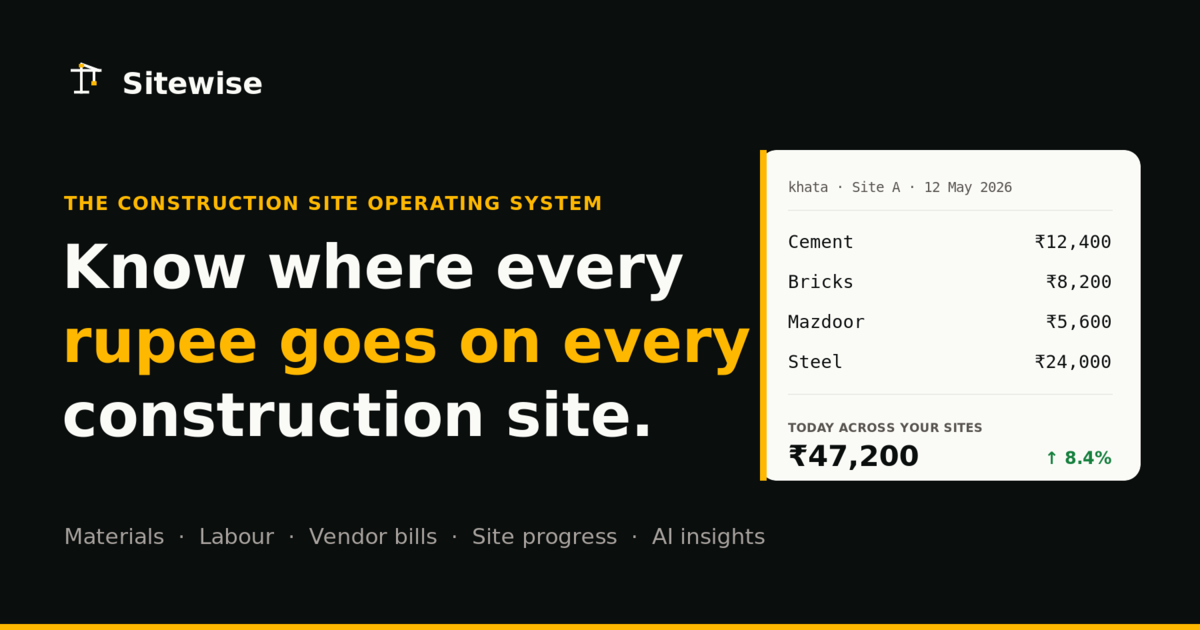
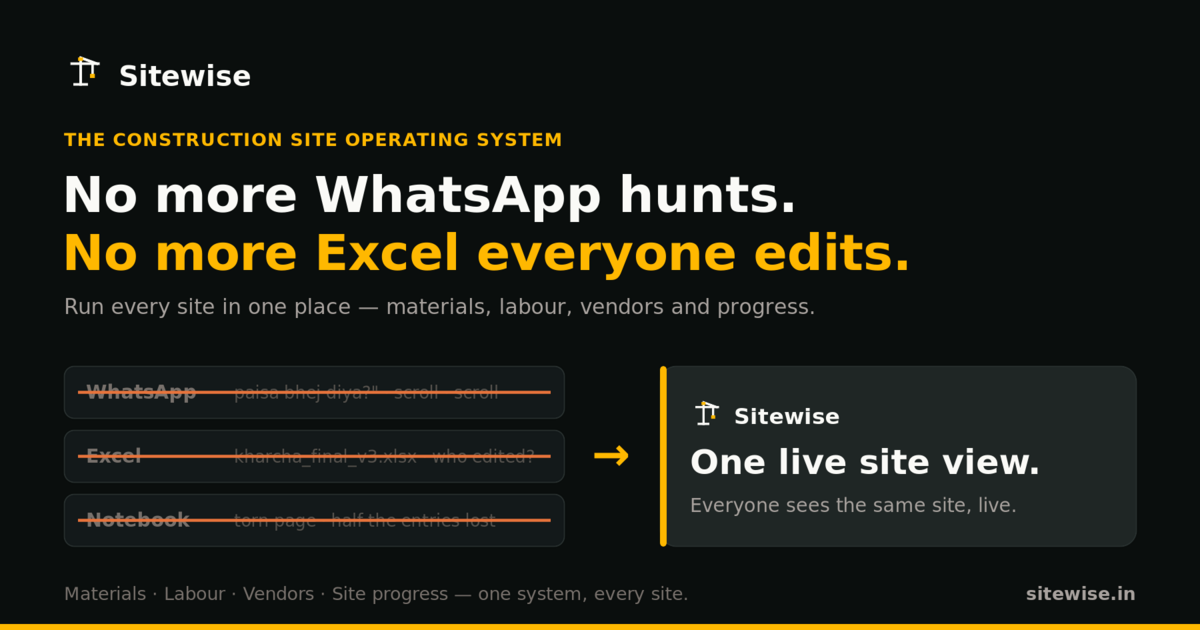
OG image properly aligned. Lighthouse fixes

diff --git a/src/components/NavHeader.vue b/src/components/NavHeader.vue
@@ -10,9 +10,9 @@
 
         <!-- Desktop Navigation -->
         <div class="hidden md:flex items-center space-x-8">
-          <a @click="navigateToSection('how')" class="text-sm font-medium text-ink/70 dark:text-cream/70 hover:text-ink dark:hover:text-cream transition-colors duration-150 cursor-pointer">How it works</a>
-          <a @click="navigateToSection('features')" class="text-sm font-medium text-ink/70 dark:text-cream/70 hover:text-ink dark:hover:text-cream transition-colors duration-150 cursor-pointer">Features</a>
-          <a @click="navigateToSection('pricing')" class="text-sm font-medium text-ink/70 dark:text-cream/70 hover:text-ink dark:hover:text-cream transition-colors duration-150 cursor-pointer">Pricing</a>
+          <a href="/#how" @click.prevent="navigateToSection('how')" class="text-sm font-medium text-ink/70 dark:text-cream/70 hover:text-ink dark:hover:text-cream transition-colors duration-150">How it works</a>
+          <a href="/#features" @click.prevent="navigateToSection('features')" class="text-sm font-medium text-ink/70 dark:text-cream/70 hover:text-ink dark:hover:text-cream transition-colors duration-150">Features</a>
+          <a href="/#pricing" @click.prevent="navigateToSection('pricing')" class="text-sm font-medium text-ink/70 dark:text-cream/70 hover:text-ink dark:hover:text-cream transition-colors duration-150">Pricing</a>
           <RouterLink to="/blog" class="text-sm font-medium text-ink/70 dark:text-cream/70 hover:text-ink dark:hover:text-cream transition-colors duration-150">Blog</RouterLink>
           <a href="https://github.com/site-wise/app" class="text-sm font-medium text-ink/70 dark:text-cream/70 hover:text-ink dark:hover:text-cream transition-colors duration-150" target="_blank" rel="noopener" aria-label="Sitewise on GitHub">GitHub</a>
         </div>
@@ -43,9 +43,9 @@
       <!-- Mobile Navigation -->
       <div v-if="mobileMenuOpen" class="md:hidden py-4 border-t border-cream-3 dark:border-ink-4">
         <div class="flex flex-col space-y-1">
-          <a @click="navigateToSection('how'); closeMobileMenu()" class="text-ink/80 dark:text-cream/80 hover:text-ink dark:hover:text-cream transition-colors duration-150 py-2 cursor-pointer">How it works</a>
-          <a @click="navigateToSection('features'); closeMobileMenu()" class="text-ink/80 dark:text-cream/80 hover:text-ink dark:hover:text-cream transition-colors duration-150 py-2 cursor-pointer">Features</a>
-          <a @click="navigateToSection('pricing'); closeMobileMenu()" class="text-ink/80 dark:text-cream/80 hover:text-ink dark:hover:text-cream transition-colors duration-150 py-2 cursor-pointer">Pricing</a>
+          <a href="/#how" @click.prevent="navigateToSection('how'); closeMobileMenu()" class="text-ink/80 dark:text-cream/80 hover:text-ink dark:hover:text-cream transition-colors duration-150 py-2">How it works</a>
+          <a href="/#features" @click.prevent="navigateToSection('features'); closeMobileMenu()" class="text-ink/80 dark:text-cream/80 hover:text-ink dark:hover:text-cream transition-colors duration-150 py-2">Features</a>
+          <a href="/#pricing" @click.prevent="navigateToSection('pricing'); closeMobileMenu()" class="text-ink/80 dark:text-cream/80 hover:text-ink dark:hover:text-cream transition-colors duration-150 py-2">Pricing</a>
           <RouterLink to="/blog" @click="closeMobileMenu" class="text-ink/80 dark:text-cream/80 hover:text-ink dark:hover:text-cream transition-colors duration-150 py-2">Blog</RouterLink>
           <a href="https://github.com/site-wise/app" @click="closeMobileMenu" class="text-ink/80 dark:text-cream/80 hover:text-ink dark:hover:text-cream transition-colors duration-150 py-2" target="_blank" rel="noopener">GitHub</a>
           <a href="https://app.sitewise.in/login" class="mt-3 inline-flex items-center justify-center h-11 px-4 rounded-sm text-sm font-semibold text-cream bg-ink hover:bg-ink-2 active:scale-[0.98] transition-all duration-150 text-center" aria-label="Open the Sitewise app">

diff --git a/src/components/FooterSection.vue b/src/components/FooterSection.vue
@@ -20,9 +20,9 @@
         <div>
           <h3 class="eyebrow text-stone-3 dark:text-stone mb-4">Product</h3>
           <ul class="space-y-2.5 text-sm">
-            <li><a @click="navigateToSection('features')" class="text-ink/70 dark:text-cream/70 hover:text-ink dark:hover:text-cream transition-colors duration-150 cursor-pointer">Features</a></li>
-            <li><a @click="navigateToSection('how')" class="text-ink/70 dark:text-cream/70 hover:text-ink dark:hover:text-cream transition-colors duration-150 cursor-pointer">How it works</a></li>
-            <li><a @click="navigateToSection('pricing')" class="text-ink/70 dark:text-cream/70 hover:text-ink dark:hover:text-cream transition-colors duration-150 cursor-pointer">Pricing</a></li>
+            <li><a href="/#features" @click.prevent="navigateToSection('features')" class="text-ink/70 dark:text-cream/70 hover:text-ink dark:hover:text-cream transition-colors duration-150">Features</a></li>
+            <li><a href="/#how" @click.prevent="navigateToSection('how')" class="text-ink/70 dark:text-cream/70 hover:text-ink dark:hover:text-cream transition-colors duration-150">How it works</a></li>
+            <li><a href="/#pricing" @click.prevent="navigateToSection('pricing')" class="text-ink/70 dark:text-cream/70 hover:text-ink dark:hover:text-cream transition-colors duration-150">Pricing</a></li>
             <li><a href="https://github.com/site-wise/app/blob/main/USER_GUIDE.md" class="text-ink/70 dark:text-cream/70 hover:text-ink dark:hover:text-cream transition-colors duration-150" target="_blank" rel="noopener">Docs</a></li>
             <li><a href="https://github.com/site-wise/app/blob/main/CHANGELOG.md" class="text-ink/70 dark:text-cream/70 hover:text-ink dark:hover:text-cream transition-colors duration-150" target="_blank" rel="noopener">Changelog</a></li>
           </ul>
@@ -34,7 +34,7 @@
           <ul class="space-y-2.5 text-sm">
             <li><RouterLink to="/about" class="text-ink/70 dark:text-cream/70 hover:text-ink dark:hover:text-cream transition-colors duration-150">About</RouterLink></li>
             <li><RouterLink to="/blog" class="text-ink/70 dark:text-cream/70 hover:text-ink dark:hover:text-cream transition-colors duration-150">Blog</RouterLink></li>
-            <li><a @click="openContactModal" class="text-ink/70 dark:text-cream/70 hover:text-ink dark:hover:text-cream transition-colors duration-150 cursor-pointer">Contact</a></li>
+            <li><button type="button" @click="openContactModal" class="text-ink/70 dark:text-cream/70 hover:text-ink dark:hover:text-cream transition-colors duration-150 text-left">Contact</button></li>
             <li><a href="https://app.sitewise.in/login" class="text-ink/70 dark:text-cream/70 hover:text-ink dark:hover:text-cream transition-colors duration-150">Open app</a></li>
           </ul>
         </div>

diff --git a/src/components/PricingSection.vue b/src/components/PricingSection.vue
@@ -15,7 +15,7 @@
           <div class="text-sm text-ink/60 dark:text-cream/60 mt-1 mb-6">Forever · O'Saasy License</div>
           <ul class="flex flex-col gap-2.5 mb-8">
             <li v-for="f in selfHosted" :key="f" class="flex items-center gap-2.5 text-sm text-ink/80 dark:text-cream/80">
-              <span class="text-amber font-bold">✓</span> {{ f }}
+              <span class="text-forest-deep dark:text-forest font-bold">✓</span> {{ f }}
             </li>
           </ul>
           <a href="https://github.com/site-wise/app" target="_blank" rel="noopener" class="mt-auto inline-flex items-center justify-center h-11 rounded-sm border border-cream-3 dark:border-ink-4 hover:border-ink dark:hover:border-cream text-ink dark:text-cream font-semibold active:scale-[0.98] transition-all duration-150">
@@ -51,7 +51,7 @@
           <div class="text-sm text-ink/60 dark:text-cream/60 mt-1 mb-6">For builders at scale</div>
           <ul class="flex flex-col gap-2.5 mb-8">
             <li v-for="f in enterprise" :key="f" class="flex items-center gap-2.5 text-sm text-ink/80 dark:text-cream/80">
-              <span class="text-amber font-bold">✓</span> {{ f }}
+              <span class="text-forest-deep dark:text-forest font-bold">✓</span> {{ f }}
             </li>
           </ul>
           <button @click="openSalesModal" class="mt-auto inline-flex items-center justify-center h-11 rounded-sm border border-cream-3 dark:border-ink-4 hover:border-ink dark:hover:border-cream text-ink dark:text-cream font-semibold active:scale-[0.98] transition-all duration-150">

diff --git a/src/components/HowItWorksSection.vue b/src/components/HowItWorksSection.vue
@@ -10,7 +10,7 @@
       <div class="grid md:grid-cols-3 gap-5">
         <div v-for="(s, i) in steps" :key="s.title" class="relative rounded-md border border-cream-3 dark:border-ink-4 bg-white dark:bg-ink-3 p-6">
           <div class="flex items-center gap-3 mb-4">
-            <span class="font-display text-2xl font-bold text-amber tabular-nums">{{ String(i + 1).padStart(2, '0') }}</span>
+            <span class="inline-flex items-center justify-center h-9 px-2.5 rounded-sm bg-amber text-ink font-display text-lg font-bold tabular-nums">{{ String(i + 1).padStart(2, '0') }}</span>
             <span class="h-px flex-1 bg-cream-3 dark:bg-ink-4"></span>
             <component :is="s.icon" class="w-5 h-5 text-stone-2 dark:text-stone" />
           </div>